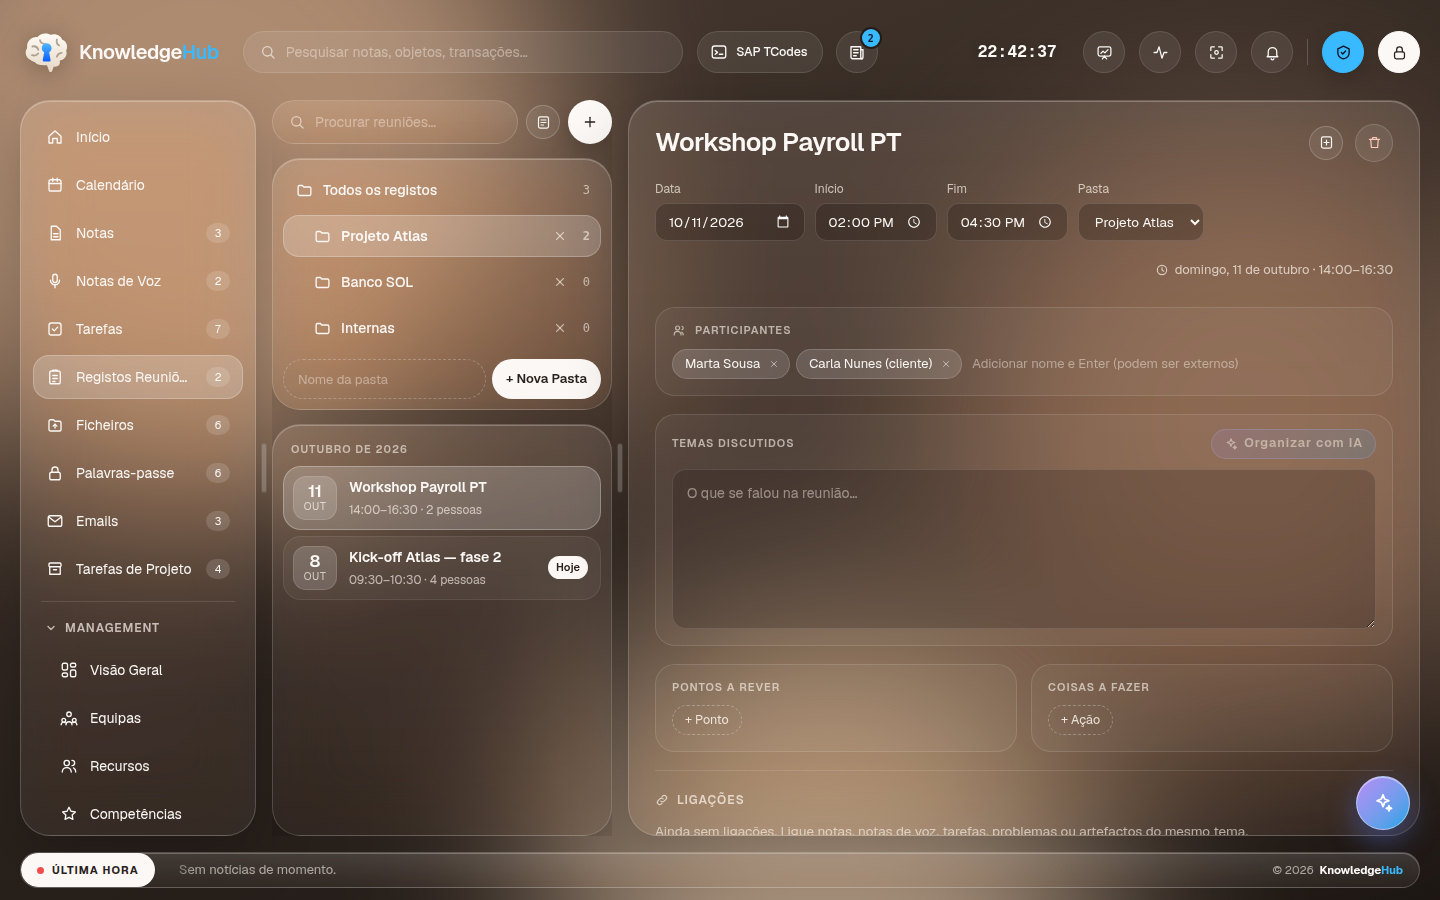
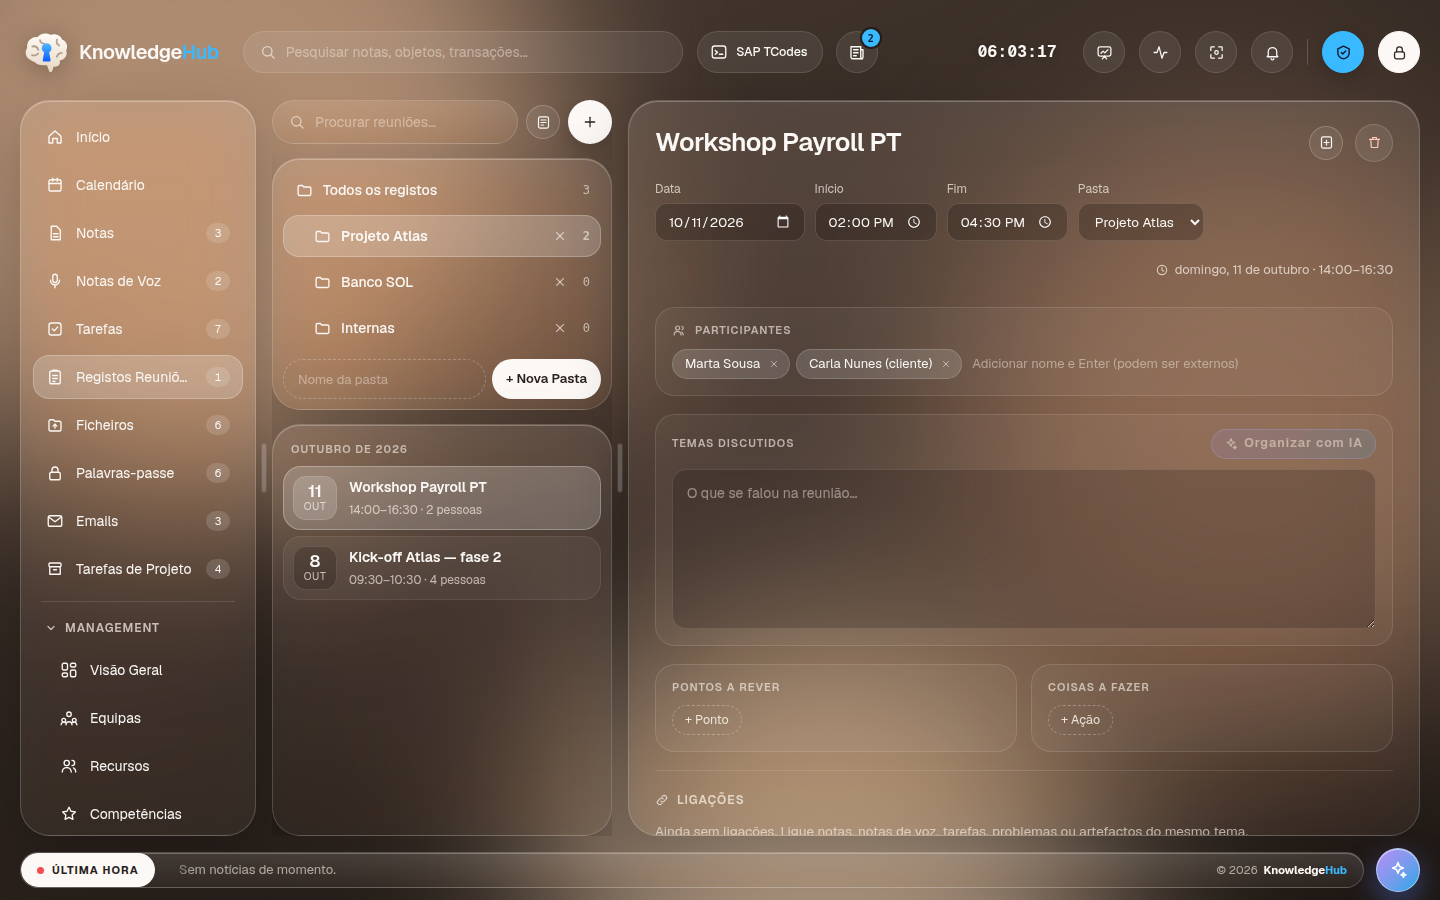
Botão da IA no canto da barra de rodapé: deixa de tapar controlos das páginas
Flutuando sobre o conteúdo tapava "Remover linha" no Funcional, "Copiar" nas
TCodes e o zoom do Quadro. Passa para a linha do rodapé, ao lado das notícias
(que encurtam para lhe dar lugar); o painel volta a ir até acima do rodapé.

Claude-Session: https://claude.ai/code/session_01QiJwAAdNRoeyhHZrTSTyzb

diff --git a/src/components/ai/ai.css b/src/components/ai/ai.css
@@ -3,8 +3,8 @@
   position: fixed;
   top: 96px;
   right: 22px;
-  /* above the floating button */
-  bottom: 136px;
+  /* above the footer row (news ticker + the button) */
+  bottom: 62px;
   z-index: 60;
   width: min(460px, calc(100vw - 32px));
   display: flex;
@@ -502,14 +502,15 @@ a.kh-ai-cite:hover {
   font-weight: 600;
 }
 
-/* the floating button (bottom right, above the news ticker) */
+/* the floating button: bottom right, in the footer row next to the news
+   ticker (which leaves room for it), so it never covers page controls */
 .kh-ai-fab {
   position: fixed;
-  right: 30px;
-  bottom: 70px;
+  right: 20px;
+  bottom: 8px;
   z-index: 61;
-  width: 54px;
-  height: 54px;
+  width: 44px;
+  height: 44px;
   border-radius: 50%;
   display: flex;
   align-items: center;
@@ -553,4 +554,8 @@ a.kh-ai-cite:hover {
   .kh-ai-fab {
     transition: none;
   }
+}
+/* the news ticker leaves the corner to the button */
+.kh-shell[data-ai-fab] .kh-ticker {
+  margin-right: 56px;
 }

diff --git a/src/components/ai/AiFab.tsx b/src/components/ai/AiFab.tsx
@@ -5,7 +5,7 @@ import { useI18n } from '@/i18n/client';
 import { useAi } from './useAi';
 import './ai.css';
 
-// Assistente IA: the floating button (bottom right, above the news ticker).
+// Assistente IA: the floating button (bottom right, in the footer row beside the news ticker).
 // Opens and closes the side panel; Ctrl/⌘+J does the same.
 
 const SPARK =
@@ -43,8 +43,8 @@ export function AiFab({ open, onToggle }: { open: boolean; onToggle: () => void 
       onClick={onToggle}
     >
       <svg
-        width="22"
-        height="22"
+        width="20"
+        height="20"
         viewBox="0 0 24 24"
         fill="none"
         stroke="currentColor"

diff --git a/src/components/shell/AppShell.tsx b/src/components/shell/AppShell.tsx
@@ -138,7 +138,12 @@ function Shell({ me, children }: { me: ShellMe; children: React.ReactNode }) {
         blur={look.bg.blur}
         dim={look.bg.dim}
       />
-      <div className="kh-shell kh-above" aria-hidden={locked || undefined} inert={locked || undefined}>
+      <div
+        className="kh-shell kh-above"
+        data-ai-fab={(modules.has('ai') && !focus) || undefined}
+        aria-hidden={locked || undefined}
+        inert={locked || undefined}
+      >
         <div className="kh-shell__grid">
           <Header onActivity={() => setActOpen((o) => !o)} activityOpen={actOpen} />
           <div
